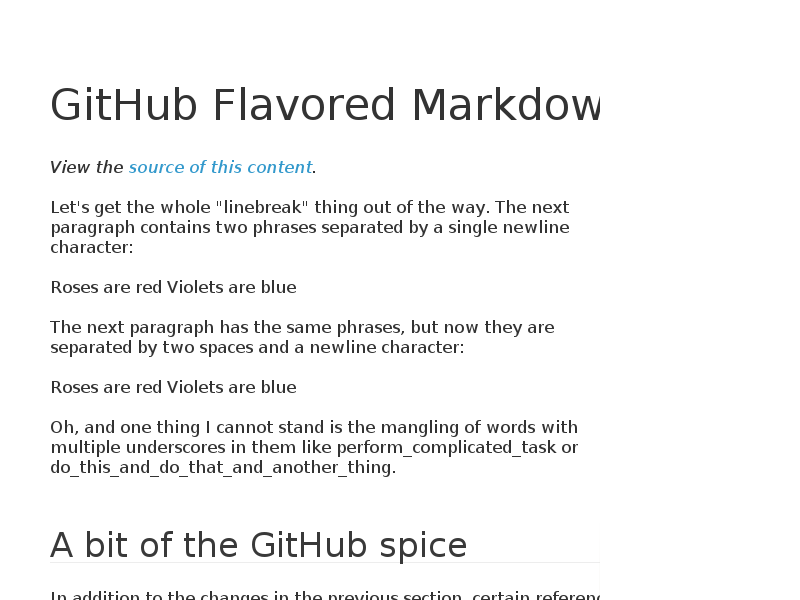
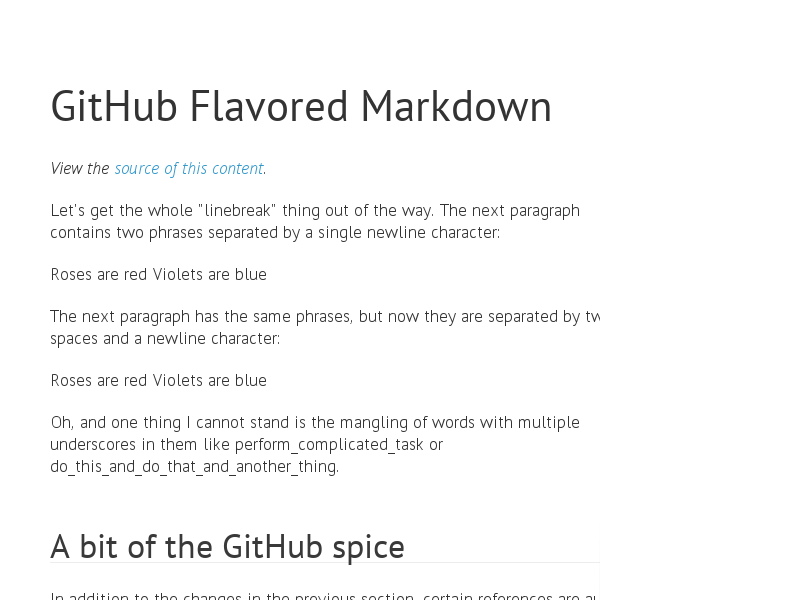
Update screenshots

diff --git a/font-download.js b/font-download.js
@@ -1,0 +1,28 @@
+var https = require('https'),
+    child_process = require('child_process');
+
+https.get('https://api.github.com/repos/w0ng/googlefontdirectory/contents/fonts', function(res) {
+  console.log("Got response: " + res.statusCode);
+  var data = '';
+  res.setEncoding('utf8');
+  res.on('data', function (chunk) {
+    data += chunk;
+  });
+  res.on('end', function() {
+    var content = JSON.parse(data);
+
+    ['Andika', 'Cantarell', 'DroidSansMono', 'Vollkorn', 'PT_Sans', 'Inconsolata'].forEach(function(font) {
+      var items = content.filter(function(item) {
+        return item.name.match(font);
+      });
+      console.log('Run the following commands to get the fonts');
+      items.forEach(function(item) {
+        console.log('cd ~/.fonts && wget -N https://github.com/w0ng/googlefontdirectory/raw/master/'+item.path);
+      });
+      console.log('fc-cache -fv')
+    });
+  });
+
+}).on('error', function(e) {
+  console.log("Got error: " + e.message);
+});

diff --git a/readme.md b/readme.md
@@ -8,7 +8,7 @@ Copy the assets folder from the layout you want to use.
 
 ## Screenshots
 
-Note: webfonts are missing right now, I think I'll need to switch to phantomJS to get full support for screenshots.
+Note: webfonts may be slightly different the screenshots are via the command line.
 
 ### jasonm23-dark
 
